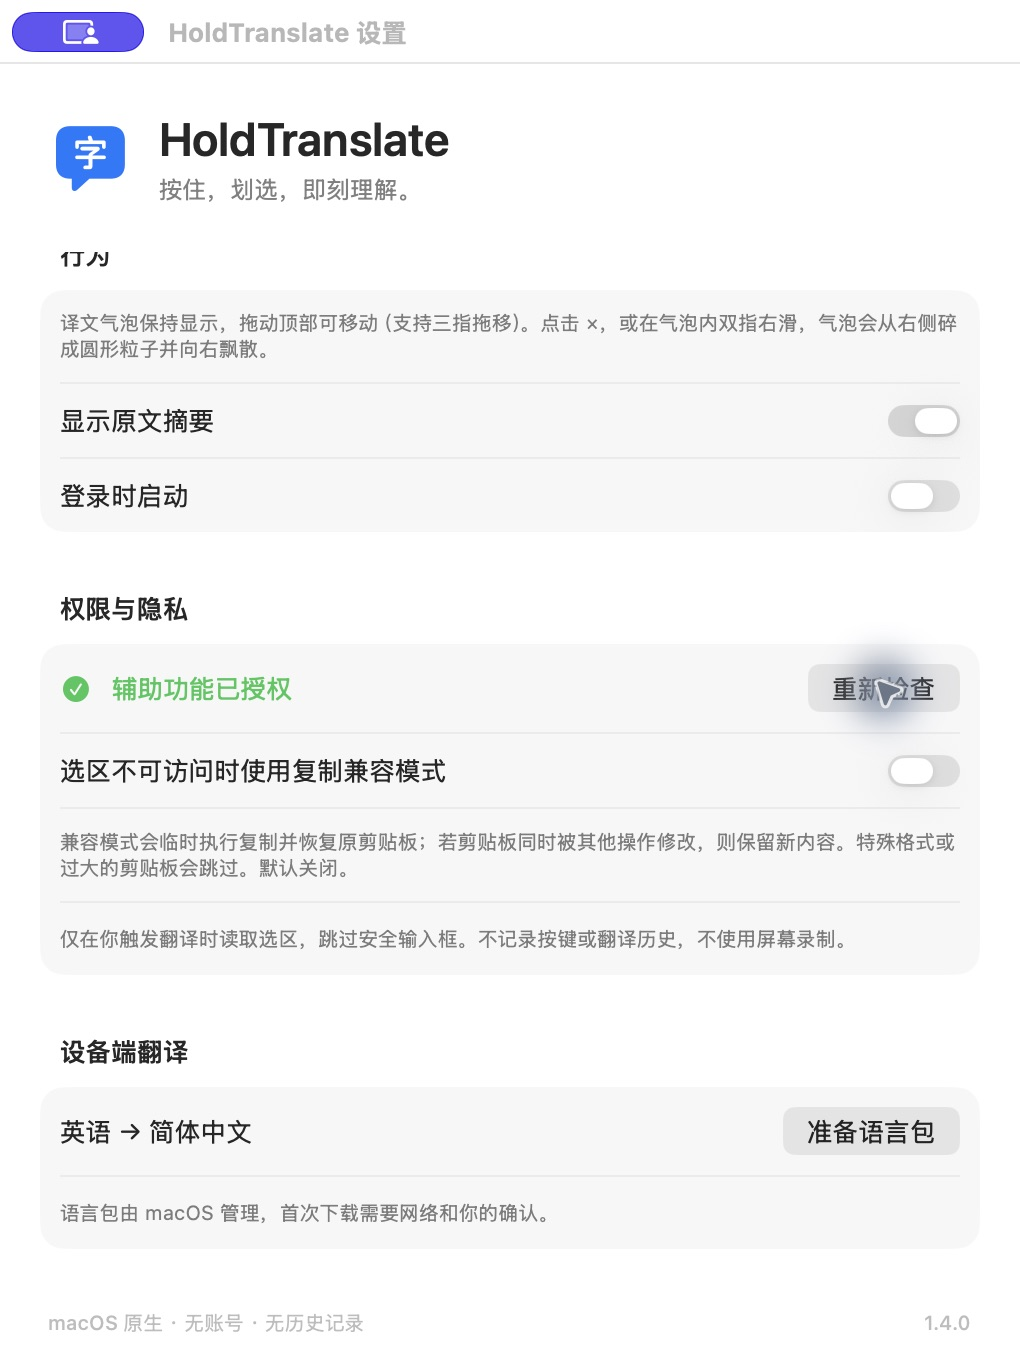
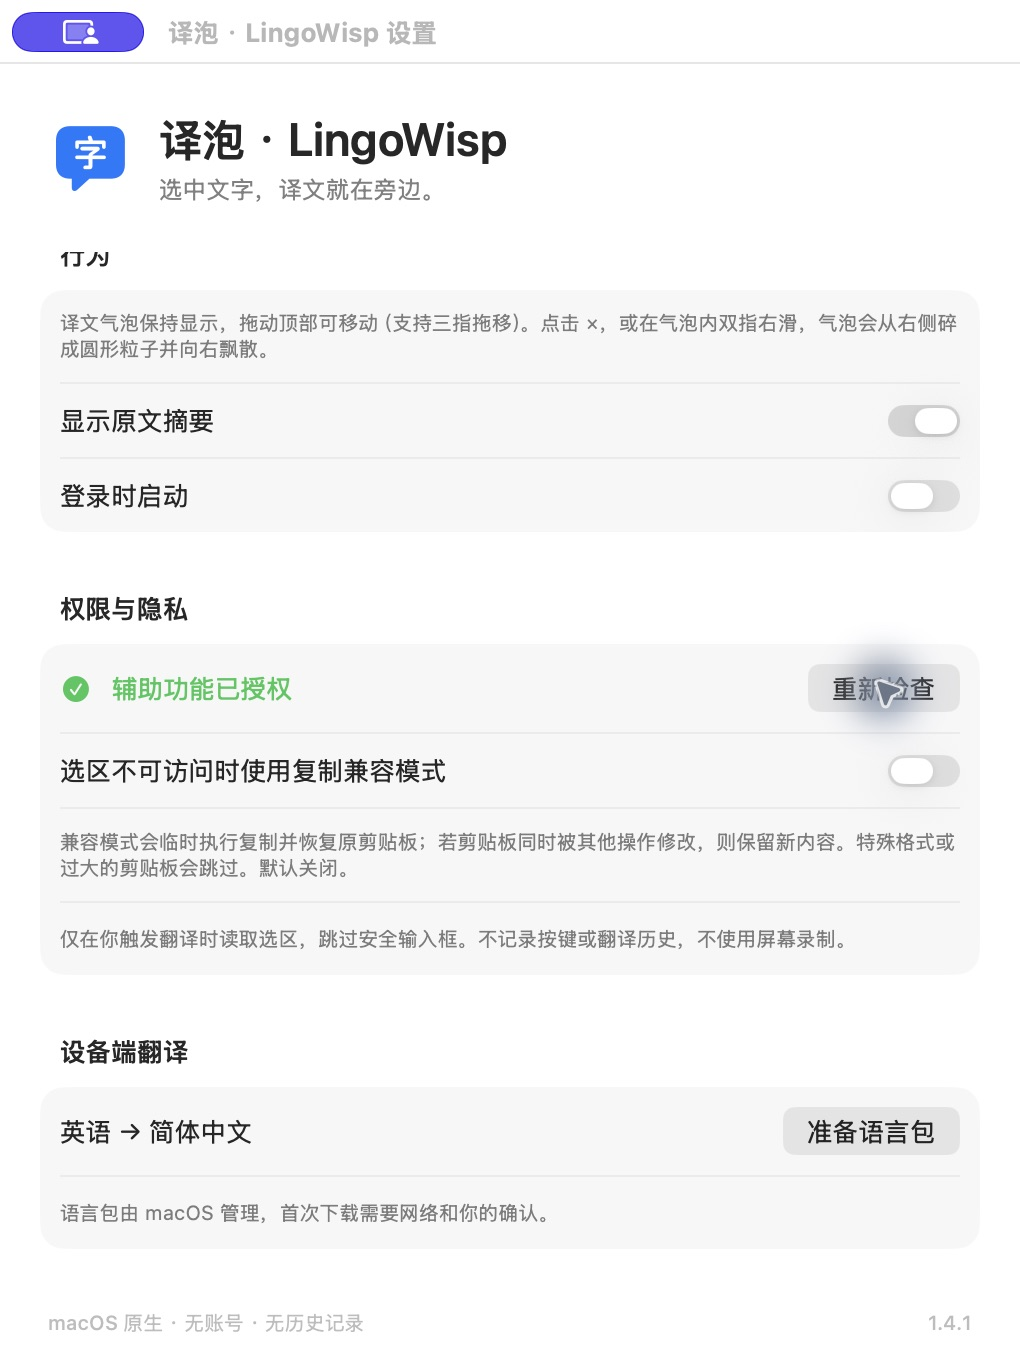
Rename app and project to LingoWisp (译泡)

Changed region(s): [[0.152, 0.0924, 0.5167, 0.154], [0.152, 0.0, 0.4255, 0.0308], [0.9118, 0.9545, 0.9422, 0.9853]]

diff --git a/HoldTranslate/App/HoldTranslateApp.swift b/HoldTranslate/App/HoldTranslateApp.swift
@@ -3,7 +3,7 @@ import AppKit
 import Combine
 import ApplicationServices
 
-@main struct HoldTranslateApp: App {
+@main struct LingoWispApp: App {
     @NSApplicationDelegateAdaptor(AppDelegate.self) var delegate
     var body: some Scene { Settings { EmptyView() } }
 }
@@ -59,7 +59,7 @@ import ApplicationServices
             else { self?.configureShortcut() }
         }
         statusItem = NSStatusBar.system.statusItem(withLength: NSStatusItem.squareLength)
-        statusItem.button?.image = NSImage(systemSymbolName: "character.bubble", accessibilityDescription: "HoldTranslate")
+        statusItem.button?.image = NSImage(systemSymbolName: "character.bubble", accessibilityDescription: "译泡 · LingoWisp")
         preferences.$enabled.dropFirst().sink { [weak self] _ in
             Task { @MainActor in self?.dismiss(); self?.configureMonitoring(); self?.updateMenu() }
         }.store(in: &subscriptions)
@@ -168,18 +168,18 @@ import ApplicationServices
         let settings = NSMenuItem(title: "设置…", action: #selector(showSettings), keyEquivalent: ",")
         settings.target = self; menu.addItem(settings)
         menu.addItem(.separator())
-        let quit = NSMenuItem(title: "退出 HoldTranslate", action: #selector(NSApplication.terminate(_:)), keyEquivalent: "q")
+        let quit = NSMenuItem(title: "退出译泡", action: #selector(NSApplication.terminate(_:)), keyEquivalent: "q")
         menu.addItem(quit)
         statusItem.menu = menu
         statusItem.button?.appearsDisabled = !preferences.enabled
-        statusItem.button?.toolTip = preferences.enabled ? "HoldTranslate · 按住修饰键划选" : "HoldTranslate · 已暂停"
+        statusItem.button?.toolTip = preferences.enabled ? "译泡 · 选中文字，译文就在旁边。" : "译泡 · 已暂停"
     }
     @objc private func toggleEnabled() { preferences.enabled.toggle() }
     @objc func showSettings() {
         settingsModel.refresh()
         if settingsWindow == nil {
             let window = NSWindow(contentRect: NSRect(x: 0, y: 0, width: 510, height: 650), styleMask: [.titled, .closable, .miniaturizable], backing: .buffered, defer: false)
-            window.title = "HoldTranslate 设置"
+            window.title = "译泡 · LingoWisp 设置"
             window.contentView = NSHostingView(rootView: SettingsView(preferences: preferences, model: settingsModel))
             window.isReleasedWhenClosed = false
             window.center()

diff --git a/HoldTranslate/App/SettingsView.swift b/HoldTranslate/App/SettingsView.swift
@@ -29,7 +29,7 @@ import ServiceManagement
         do {
             if enabled { try SMAppService.mainApp.register() }
             else { try SMAppService.mainApp.unregister() }
-            loginMessage = SMAppService.mainApp.status == .requiresApproval ? "请在系统设置 → 通用 → 登录项中允许 HoldTranslate。" : nil
+            loginMessage = SMAppService.mainApp.status == .requiresApproval ? "请在系统设置 → 通用 → 登录项中允许译泡（LingoWisp）。" : nil
         } catch { loginMessage = "无法更改登录项。请将应用放在固定位置后重试，或在系统设置中管理。" }
         refresh()
     }
@@ -47,8 +47,8 @@ struct SettingsView: View {
             HStack(spacing: 13) {
                 Image(systemName: "character.bubble.fill").font(.system(size: 32)).foregroundStyle(.tint)
                 VStack(alignment: .leading, spacing: 4) {
-                    Text("HoldTranslate").font(.system(size: 23, weight: .semibold))
-                    Text("按住，划选，即刻理解。").font(.system(size: 12)).foregroundStyle(.secondary)
+                    Text("译泡 · LingoWisp").font(.system(size: 23, weight: .semibold))
+                    Text("选中文字，译文就在旁边。").font(.system(size: 12)).foregroundStyle(.secondary)
                 }
                 Spacer()
             }.padding(24)

diff --git a/HoldTranslate/App/BubbleView.swift b/HoldTranslate/App/BubbleView.swift
@@ -13,7 +13,7 @@ struct BubbleView: View {
         VStack(alignment: .leading, spacing: 13) {
             HStack(spacing: 6) {
                 Image(systemName: "character.bubble").font(.system(size: 12, weight: .medium))
-                Text(model.pair?.label ?? "HoldTranslate").font(.system(size: 11, weight: .medium))
+                Text(model.pair?.label ?? "译泡").font(.system(size: 11, weight: .medium))
                 Spacer(minLength: 4)
                 if case let .result(result) = model.state {
                     Button {
@@ -170,7 +170,7 @@ final class TranslationPanel: NSPanel {
         panel.isOpaque = false; panel.backgroundColor = .clear; panel.hasShadow = true
         panel.isReleasedWhenClosed = false
         panel.animationBehavior = .none
-        panel.setAccessibilityLabel("HoldTranslate 翻译")
+        panel.setAccessibilityLabel("译泡 · LingoWisp 翻译")
         panel.contentView = BubbleHostingView(rootView: BubbleView(model: model, preferences: preferences,
             close: { [weak self] in self?.hide(dissolving: true) },
             sizeChanged: { [weak self] size in self?.resize(size) }))

diff --git a/scripts/generate-project.py b/scripts/generate-project.py
@@ -3,7 +3,7 @@
 from pathlib import Path
 import hashlib
 root = Path(__file__).resolve().parent.parent
-project = root / 'HoldTranslate.xcodeproj'
+project = root / 'LingoWisp.xcodeproj'
 project.mkdir(exist_ok=True)
 def ident(name): return hashlib.sha1(name.encode()).hexdigest()[:24].upper()
 objects = []
@@ -22,26 +22,27 @@ for source in sources:
 icon = add('icon', 'isa = PBXFileReference; lastKnownFileType = image.icns; path = HoldTranslate/Resources/AppIcon.icns; sourceTree = SOURCE_ROOT;')
 icon_build = add('iconBuild', f'isa = PBXBuildFile; fileRef = {icon};')
 file_ids.append(icon)
-product = add('product', 'isa = PBXFileReference; explicitFileType = wrapper.application; includeInIndex = 0; path = HoldTranslate.app; sourceTree = BUILT_PRODUCTS_DIR;')
+product = add('product', 'isa = PBXFileReference; explicitFileType = wrapper.application; includeInIndex = 0; path = LingoWisp.app; sourceTree = BUILT_PRODUCTS_DIR;')
 products = add('products', f'isa = PBXGroup; children = {refs([product])}; name = Products; sourceTree = "<group>";')
 group = add('mainGroup', f'isa = PBXGroup; children = {refs(file_ids + [products])}; sourceTree = "<group>";')
 phase = add('sources', f'isa = PBXSourcesBuildPhase; buildActionMask = 2147483647; files = {refs(build_ids)}; runOnlyForDeploymentPostprocessing = 0;')
 frameworks = add('frameworks', 'isa = PBXFrameworksBuildPhase; buildActionMask = 2147483647; files = (); runOnlyForDeploymentPostprocessing = 0;')
 resources = add('resources', f'isa = PBXResourcesBuildPhase; buildActionMask = 2147483647; files = {refs([icon_build])}; runOnlyForDeploymentPostprocessing = 0;')
 proj_configs, target_configs = [], []
+# Preserve the original bundle ID so preferences and login-item identity survive the rename.
 for mode in ['Debug', 'Release']:
     opt = '-Onone' if mode == 'Debug' else '-O'
     proj_configs.append(add('project'+mode, f'isa = XCBuildConfiguration; name = {mode}; buildSettings = {{ MACOSX_DEPLOYMENT_TARGET = 15.0; SDKROOT = macosx; CLANG_ENABLE_MODULES = YES; SWIFT_VERSION = 5.0; SWIFT_STRICT_CONCURRENCY = complete; SWIFT_OPTIMIZATION_LEVEL = "{opt}"; DEBUG_INFORMATION_FORMAT = "dwarf-with-dsym"; }};'))
     target_configs.append(add('target'+mode, f'isa = XCBuildConfiguration; name = {mode}; buildSettings = {{ PRODUCT_NAME = "$(TARGET_NAME)"; PRODUCT_BUNDLE_IDENTIFIER = com.yikessa.HoldTranslate; INFOPLIST_FILE = HoldTranslate/Resources/Info.plist; GENERATE_INFOPLIST_FILE = NO; CODE_SIGN_IDENTITY = "-"; CODE_SIGN_STYLE = Manual; ENABLE_APP_SANDBOX = NO; ENABLE_HARDENED_RUNTIME = YES; SWIFT_EMIT_LOC_STRINGS = NO; LD_RUNPATH_SEARCH_PATHS = "$(inherited) @executable_path/../Frameworks"; }};'))
 pl = add('projectConfigs', f'isa = XCConfigurationList; buildConfigurations = {refs(proj_configs)}; defaultConfigurationIsVisible = 0; defaultConfigurationName = Release;')
 tl = add('targetConfigs', f'isa = XCConfigurationList; buildConfigurations = {refs(target_configs)}; defaultConfigurationIsVisible = 0; defaultConfigurationName = Release;')
-target = add('target', f'isa = PBXNativeTarget; buildConfigurationList = {tl}; buildPhases = {refs([phase,frameworks,resources])}; buildRules = (); dependencies = (); name = HoldTranslate; productName = HoldTranslate; productReference = {product}; productType = "com.apple.product-type.application";')
+target = add('target', f'isa = PBXNativeTarget; buildConfigurationList = {tl}; buildPhases = {refs([phase,frameworks,resources])}; buildRules = (); dependencies = (); name = LingoWisp; productName = LingoWisp; productReference = {product}; productType = "com.apple.product-type.application";')
 pid = add('project', f'isa = PBXProject; attributes = {{ LastUpgradeCheck = 1600; }}; buildConfigurationList = {pl}; compatibilityVersion = "Xcode 14.0"; developmentRegion = zh_CN; hasScannedForEncodings = 0; knownRegions = (en, zh_CN, Base); mainGroup = {group}; productRefGroup = {products}; projectDirPath = ""; projectRoot = ""; targets = {refs([target])};')
 (project/'project.pbxproj').write_text('// !$*UTF8*$!\n{ archiveVersion = 1; classes = {}; objectVersion = 56; objects = {\n'+'\n'.join(objects)+f'\n}}; rootObject = {pid}; }}\n')
 scheme = project/'xcshareddata/xcschemes'
 scheme.mkdir(parents=True, exist_ok=True)
-buildable = f'<BuildableReference BuildableIdentifier="primary" BlueprintIdentifier="{target}" BuildableName="HoldTranslate.app" BlueprintName="HoldTranslate" ReferencedContainer="container:HoldTranslate.xcodeproj"/>'
-(scheme/'HoldTranslate.xcscheme').write_text(f'''<?xml version="1.0" encoding="UTF-8"?>
+buildable = f'<BuildableReference BuildableIdentifier="primary" BlueprintIdentifier="{target}" BuildableName="LingoWisp.app" BlueprintName="LingoWisp" ReferencedContainer="container:LingoWisp.xcodeproj"/>'
+(scheme/'LingoWisp.xcscheme').write_text(f'''<?xml version="1.0" encoding="UTF-8"?>
 <Scheme LastUpgradeVersion="1600" version="1.3">
 <BuildAction parallelizeBuildables="YES" buildImplicitDependencies="YES"><BuildActionEntries><BuildActionEntry buildForTesting="YES" buildForRunning="YES" buildForProfiling="YES" buildForArchiving="YES" buildForAnalyzing="YES">{buildable}</BuildActionEntry></BuildActionEntries></BuildAction>
 <TestAction buildConfiguration="Debug" shouldUseLaunchSchemeArgsEnv="YES"/>

diff --git a/README.md b/README.md
@@ -1,8 +1,12 @@
-# HoldTranslate
+# 译泡 · LingoWisp
 
-轻量 macOS 菜单栏划词翻译工具。按住修饰键划选文字，松开鼠标，在原位置附近阅读译文。
+**选中文字，译文就在旁边。**
+
+轻量 macOS 菜单栏翻译工具。按住修饰键划选，或选中文字后按 ⌥D，在原位置附近阅读译文。
 
 使用 SwiftUI、AppKit、Accessibility、NaturalLanguage 和 Apple Translation。无第三方依赖，无账号或 API Key，无翻译历史。
+
+原名 HoldTranslate。更名后沿用原应用标识，保留现有快捷键和偏好设置。旧版本的发布记录保留在历史 Release 中。
 
 ## 系统要求
 
@@ -15,10 +19,10 @@
 
 ```sh
 ./scripts/build.sh
-open build/Distribution/HoldTranslate.app
+open build/Distribution/LingoWisp.app
 ```
 
-也可以打开 `HoldTranslate.xcodeproj`，选择 HoldTranslate scheme 后运行。`Package.swift` 用于核心逻辑、请求生命周期和窗口行为单元测试：
+也可以打开 `LingoWisp.xcodeproj`，选择 LingoWisp scheme 后运行。`Package.swift` 用于核心逻辑、请求生命周期和窗口行为单元测试：
 
 ```sh
 swift test
@@ -26,19 +30,19 @@ swift test
 
 提交的 Xcode 工程无需第三方生成器。添加 Swift 文件后可运行 `python3 scripts/generate-project.py` 重新生成工程。
 
-发布构建位于 `build/Distribution/HoldTranslate.app`，不提交构建缓存。建议复制到固定位置（例如 `~/Applications`）再授权和启用登录启动。移动或重新签名后，系统可能要求重新授权。若开关已开启但应用仍提示未授权，请在辅助功能列表移除旧 HoldTranslate，再通过加号添加当前路径的应用；单纯关闭后再开启可能无法刷新旧 ad-hoc 签名记录。
+发布构建位于 `build/Distribution/LingoWisp.app`，不提交构建缓存。建议复制到固定位置（例如 `~/Applications`）再授权和启用登录启动。移动或重新签名后，系统可能要求重新授权。若开关已开启但应用仍提示未授权，请在辅助功能列表移除旧应用条目，再通过加号添加当前路径的应用；单纯关闭后再开启可能无法刷新旧 ad-hoc 签名记录。
 
 本地构建使用 ad-hoc 签名；**没有 Developer ID 签名或公证**，不能宣称通过 Gatekeeper 分发验证。若自行分发，请使用自己的开发者证书签名并公证。不要关闭系统安全保护。
 
 ## 使用
 
-1. 启动后在设置中阅读权限说明，点击「前往授权」。在系统设置 → 隐私与安全性 → 辅助功能中开启 HoldTranslate。
+1. 启动后在设置中阅读权限说明，点击「前往授权」。在系统设置 → 隐私与安全性 → 辅助功能中开启译泡（LingoWisp）。
 2. 回到设置，点击「准备语言包」，完成系统下载确认。
 3. 在其他应用按住 **⌥ Option**，拖动选中文字，然后松开鼠标。
 4. 也可以先选中文字，再按 **⌥D**（Option + D）。在菜单栏 → 设置 →「选中后翻译」点击快捷键按钮，直接按下新组合即可保存；Esc 取消，「恢复默认」改回 ⌥D。设置会在重启后保留，已占用的组合会提示冲突。
 5. 气泡弹出时不抢键盘焦点。可直接划选译文，按 **⌘C** 或右键「复制」；点击译文后按 **⌘A** 全选。顶部小复制按钮仍可复制完整译文。
 
-Option 会影响某些应用的选区行为（例如矩形选择）。可切换到 Control 或 Option + Command；Control 也可能触发原应用上下文菜单。划选事件只读监听。「选中后翻译」使用系统全局快捷键注册，按下组合时由 HoldTranslate 处理，避免 Option+D 在编辑器中输入特殊字符。选择组合时请避开自己常用的编辑命令。
+Option 会影响某些应用的选区行为（例如矩形选择）。可切换到 Control 或 Option + Command；Control 也可能触发原应用上下文菜单。划选事件只读监听。「选中后翻译」使用系统全局快捷键注册，按下组合时由译泡处理，避免 Option+D 在编辑器中输入特殊字符。选择组合时请避开自己常用的编辑命令。
 
 默认中文翻译为英文，其他可识别语言翻译为简体中文；可手动指定目标语言。长选区（超过 5,000 字）、空白、数字、明显 URL/代码和无法可靠识别的内容会得到简洁提示。
 

diff --git a/docs/releases/1.4.1.md b/docs/releases/1.4.1.md
@@ -1,0 +1,24 @@
+HoldTranslate 正式更名为 **译泡 · LingoWisp**。
+
+> 选中文字，译文就在旁边。
+
+- 更新应用显示名、设置标题、菜单栏提示、退出菜单、气泡标识和版权信息。
+- 安装包改为 `LingoWisp.app`，Xcode 工程与 scheme 改为 `LingoWisp`；GitHub 仓库更名为 `Yikessa24/LingoWisp`，原仓库历史与 Release 保留。
+- 沿用原应用标识与偏好设置，保留现有快捷键。按住 Option 划选及选中后按 ⌥D 两种方式继续使用。
+- 本版只做更名，不改变翻译、译文选择、拖移或圆形粒子消散行为。
+
+### 安装与升级
+1. 下载并解压 `LingoWisp-1.4.1-macOS.zip`，将 `LingoWisp.app` 放到固定位置（例如 `~/Applications`）。升级前退出旧版 HoldTranslate，避免保留两个可启动副本。
+2. macOS 15 或更新版本，同时支持 Apple Silicon 与 Intel。首次使用需要下载系统翻译语言包。
+3. 更名和重新签名后，如提示未授权，请在系统设置 → 隐私与安全性 → 辅助功能中移除旧条目，再添加新路径的 `LingoWisp.app`。
+
+### 验证与限制
+- universal Release 构建、应用显示名/版本/执行文件/原标识核对、ZIP 完整性与签名完整性校验通过。
+- 已安装至新路径，实际设置界面确认名称、介绍语、保留的快捷键与辅助功能已授权。此前通过的翻译、手势、复制和动效测试未重复运行。
+- 当前使用 ad-hoc 签名，尚未使用 Developer ID 签名或公证；其他 Mac 可能被 Gatekeeper 拦截，不能保证直接启动。无需关闭系统安全保护。
+- 微信朋友圈等不公开辅助功能选区的界面仍可能无法翻译，兼容问题未在本版修改。
+
+SHA-256 (`LingoWisp-1.4.1-macOS.zip`):
+```
[1 lines of base64/hex data omitted]
+```

diff --git a/PROGRESS.md b/PROGRESS.md
@@ -134,3 +134,10 @@
 - Release arm64/x86_64 构建及固定安装路径签名校验通过，1.4.0 已安装。辅助功能旧签名记录刷新遇到系统 Touch ID/密码验证，等待用户本人完成后继续恢复授权。
[1 lines of base64/hex data omitted]
 - 用户完成系统身份验证后，已将固定安装路径的 1.4.0 重新加入辅助功能列表；系统开关开启，应用内部明确显示「辅助功能已授权」。设置截图已更新，随后普通启动菜单栏应用。
+
+## 2026-10-23 · 1.4.1：译泡 · LingoWisp
+- 用户确认中文名「译泡」与英文名 LingoWisp。更新应用显示名、设置与退出菜单、菜单栏提示、气泡标识、版权、README，以及 Xcode 工程/scheme/输出文件名。
+- 保留 `com.yikessa.HoldTranslate`、原偏好键及单实例锁，以继承已有设置并防止旧新两版同时监听。历史源目录、测试模块和已发布的旧版记录保留原命名。
+- Release arm64/x86_64 构建成功，核对显示名、执行文件、版本 1.4.1/build 9 和原 bundle ID；签名及 ZIP 完整性校验通过。仅验证更名与安装，未重复运行已通过的功能测试。
+- 已安装到 `~/Applications/LingoWisp.app`，旧 1.4.0 保留在忽略的 `build/PreviousInstall/` 中作为回退备份。实际界面确认新名称、介绍语与 ⌥D；系统辅助功能路径已刷新，应用内确认已授权。
[1 lines of base64/hex data omitted]

diff --git a/docs/TESTING.md b/docs/TESTING.md
@@ -151,3 +151,8 @@ open build/Distribution/HoldTranslate.app --args --smoke-test --diagnostic-repor
 - 仅验证本次选择与复制功能；未重复执行翻译、全局手势、粒子动效或微信测试。电脑控制输入不能代替真实三指硬件验证。
 - universal Release 编译和安装路径签名校验通过，版本 1.4.0 / build 8 已安装。当前系统授权刷新等待用户完成 Touch ID/密码；未将此状态计为授权或全局输入验证通过。
 - 用户完成身份验证后，已恢复固定安装路径的辅助功能信任；应用内部「辅助功能已授权」确认通过，授权等待项已完成。未重复执行其他功能测试。
+
+## 1.4.1 更名验证
+- 译泡 · LingoWisp universal Release 构建、签名和 ZIP 完整性通过；核对 `CFBundleDisplayName`、`CFBundleName`、执行文件、版本 1.4.1/build 9，以及保持不变的应用标识。
+- 实际安装界面确认设置标题、品牌名、介绍语、⌥D 与现有偏好仍在；辅助功能已切换到新安装路径，并由应用内部确认已授权。
+- 本次只更改品牌及构建输出。未重跑翻译、全局输入、复制、拖移与动效等既有功能测试。
